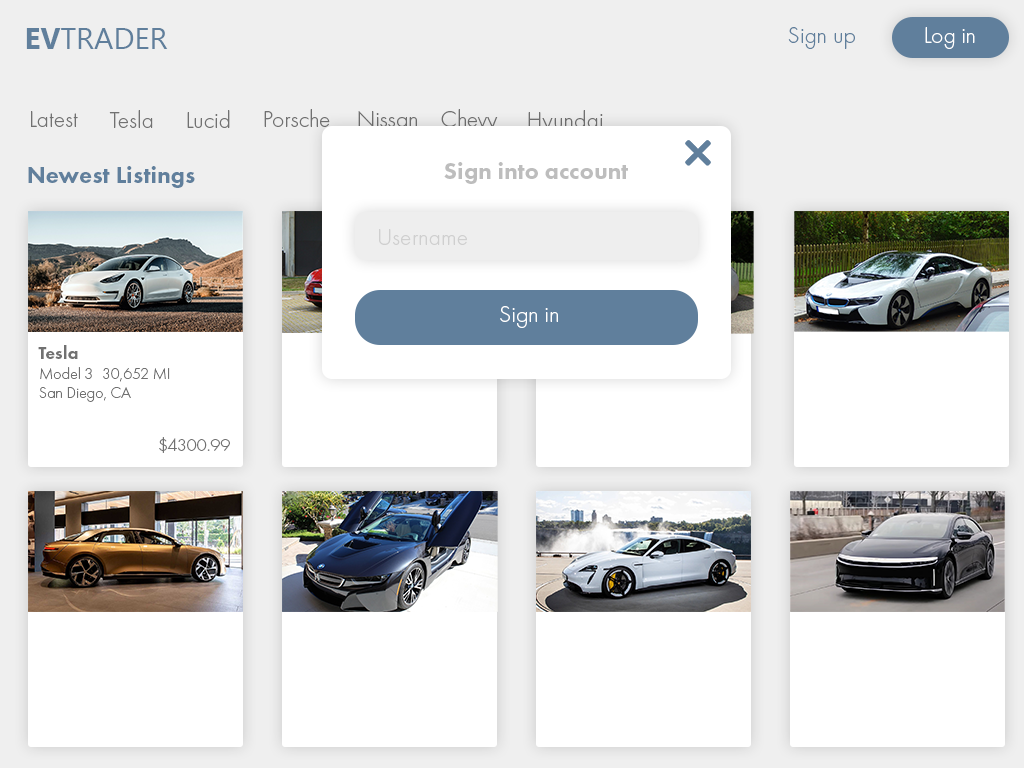
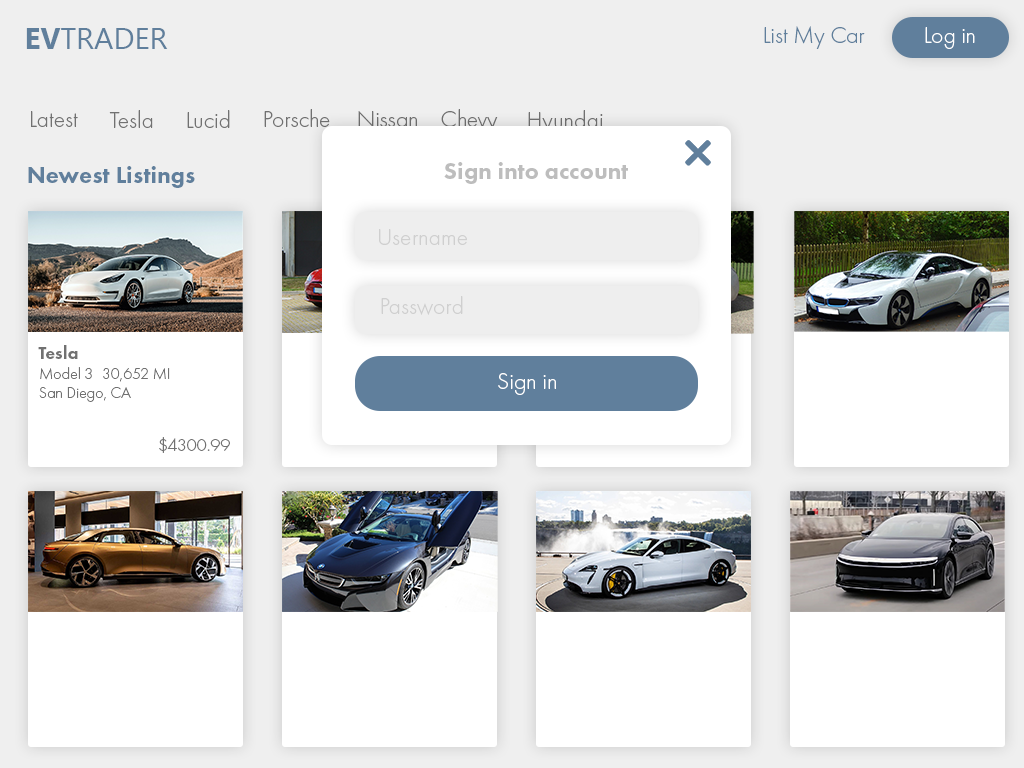
6/22

Changed region(s): [[0.3438, 0.375, 0.6875, 0.5625], [0.75, 0.0312, 0.8438, 0.0625]]

diff --git a/src/App.css b/src/App.css
@@ -11,7 +11,9 @@
     background-color: rgb(239, 239, 239);
 }
 
-/* header */
+/*****************************
+            HEADER 
+*****************************/
 .nav-bar {
     background: rgb(239, 239, 239);
 }
@@ -37,9 +39,14 @@
     width: 150px !important;
     padding-left: 15px;
 }
-
-.p2{
+#logInButton{
     background-color: rgb(96, 127, 156) !important;
+    border: rgb(96, 127, 156) !important;
+    padding: 3px 15px !important;
+    font-family: futuraMedium !important;
+}
+#listMyCar{
+    background-color: none !important;
     border: rgb(96, 127, 156) !important;
     padding: 3px 15px !important;
     font-family: futuraMedium !important;
@@ -47,41 +54,71 @@
 .d-flex {
     font-family: futuraLight !important;
 }
-/* modal */
+
+/*****************************
+            MODAL 
+*****************************/
 .sr-only, span, button.close {
     background-color: white;
 }
+button.close {
+    font-size: 40px !important;
+    color: rgb(96, 127, 156);
+    padding: 0px 0 0 0px !important;
+    margin: 0 0 0 0px !important;
+    opacity: 100%;
+}
 .modal-header {
-    border-bottom: 0 none !important;
-    text-align: center;
-    padding-bottom: 0 !important;
+    padding: 0 !important;
     background-color: white !important;
+    border-bottom: none !important;
+    display: flex !important;
+    justify-content: flex-end !important;
 }
 .modal-footer {
+    padding: 0 !important;
     border-top: 0 none !important;
-    text-align: center;
     overflow: hidden !important;
     background-color: white !important;
 }
 .modal-body {
+    background-color: white;
     padding: 0 !important;
 }
 .ml-auto, rounded {
     background-color: white !important;
 }
-.form-inline {
+#modalForm{
     background-color: white !important;
-    margin: 0 0 5px 20px;
-    text-align: center;
+    margin: 0 0 10px 0px;
+    border-radius: 50px !important;
+}
+#modalInput {
+    margin: 0 !important;
+    /* box-shadow: 1px 0px 10px .1px; */
+    /* filter: blur(.7px) !important; */
 }
 .mr-sm-2.border-1.form-control {
-    background-color: rgb(239, 239, 239);    
+    background-color: rgb(239, 239, 239);
+    border-radius: 50px !important;  
+    width: 256px !important;
+    opacity: 50%;
 }
-
+#modalSignIn {
+    width: 256px;
+    font-weight: 900 !important;
+    background-color: rgb(96, 127, 156) !important;
+    border-radius: 50px !important;
+    margin: 0 0px 0px 0 !important;
+}
 .modal-title {
-    font-size: 16px !important;
-    font-family: futuraMedium;
-    padding: 10px 0 0 0 !important;
+    letter-spacing: 1px;
+    font-size: 17px !important;
+    font-family: futuraMedium ;
+    opacity: 70%;
+    color: rgb(113, 113, 113);
+    font-weight: 700 !important;
+    padding: 0 0 5px 0 !important;
     background-color: white !important;
 }
 .fade, modal, show {
@@ -91,34 +128,40 @@
     display: flex !important;
     height: auto !important;
     overflow: hidden !important;
-    /* border: indigo 5px solid !important; */
     width: 100% !important;
-    margin-top: 10px !important;
+    margin-top: -100px !important;
 }
 .modal-content {
-    border: black 1px solid !important;
-    border-radius: 10px !important;
+    border: none !important;
     overflow: hidden !important;
+    width: 300px !important;
+    padding: 0 20px 20px 10px;
+}
+.modal-body {
+    display: flex;
+    flex-direction: column;
+    align-items: center;
+    margin-top: -10px !important;
 }
 .modal-dialog {
     background-color: none !important;
-    width: 250px !important;
+    width: 300px !important;
     overflow: hidden !important;
     border-radius: 10px !important;
-}
-.modal-container {
-    display: flex !important;
-    flex-direction: column !important;
-    justify-content: center !important;
+    box-shadow: 10px 10px 50px grey;
 }
 
-/* nav */
+/*****************************
+            NAV 
+*****************************/
 .nav-link {
     color: rgb(113, 113, 113);
     font-family: futuraLight !important;
 }
 
-/* home */
+/*****************************
+            HOME 
+*****************************/
 .newest-listings {
     font-family: futuraLight;
 }
@@ -134,8 +177,6 @@
 }
 .card-body, .card-text, .card-title {
     background-color: white !important;
-    /* font-size: 10px; */
-    /* padding: 0 !important; */
     margin: 0 !important;
 }
 .card-body {
@@ -175,7 +216,9 @@
     width: 100%;
 }
 
-/* media queries */
+/*****************************
+            MEDIA QUERIES 
+*****************************/
 @media (max-width: 1000px) {
     .contain {
       grid-template-columns: repeat(3, 1fr);
@@ -187,7 +230,7 @@
         justify-content: center;
     }
   }
-  @media (max-width: 760px) {
+@media (max-width: 760px) {
     .contain {
       grid-template-columns: repeat(2, 1fr);
       row-gap: 20px;
@@ -219,5 +262,11 @@
     }
     .img-fluid{
         width: 100% !important;
+    }
+    .modal-dialog-centered {
+     display: flex !important;
+     align-items: center !important;
+     flex-direction: column !important;
+     justify-content: center !important;   
     }
   }

diff --git a/src/components/Modals.js b/src/components/Modals.js
@@ -14,30 +14,30 @@ export default class Modals extends Component {
     render() {
       return (
         <>
-            <Button className="p2" type="button" size="sm rounded-pill" onClick={this.openModal}>Log In</Button>  
-            <div className="modal-container">
-
-            <Modal className="modal-dialog-centered" show={this.state.isOpen} onHide={this.closeModal}>
-              <Modal.Header closeButton className="modal-header">
-                <Modal.Title className="modal-title">Sign into account</Modal.Title>
-              </Modal.Header>
-              <Modal.Body>
-                <div className="ml-auto rounded ">
-                    <Form inline>
-                        <FormControl type="text" placeholder="Username" className="mr-sm-2 border-1" />
-                    </Form>
-                </div>
-                <div className="ml-auto rounded ">
-                    <Form inline>
-                        <FormControl type="text" placeholder="Password" className="mr-sm-2 border-1" />
-                    </Form>
-                </div>
-              </Modal.Body>
-              <Modal.Footer className="modal-footer">
-                <button type="button" class="btn btn-primary">Sign In </button>
-              </Modal.Footer>
-            </Modal>
+            <Button className="p2" id="logInButton" type="button" size="sm rounded-pill" onClick={this.openModal}>Log In</Button>  
             
+            <div className="modal-container">
+              <Modal className="modal-dialog-centered" id="modal" show={this.state.isOpen} onHide={this.closeModal}>
+                <Modal.Header closeButton className="modal-header">
+                </Modal.Header>
+                <Modal.Body>
+                <Modal.Title className="modal-title">Sign into account</Modal.Title>
+
+                  <div className="ml-auto rounded ">
+                      <Form inline id="modalForm">
+                          <FormControl type="text" id="modalInput" placeholder="Username" className="mr-sm-2 border-1" />
+                      </Form>
+                  </div>
+                  <div className="ml-auto rounded ">
+                      <Form inline id="modalForm" >
+                          <FormControl type="text" id="modalInput" placeholder="Password" className="mr-sm-2 border-1" />
+                      </Form>
+                  </div>
+                </Modal.Body>
+                <Modal.Footer className="modal-footer">
+                  <button type="button" class="btn btn-primary" id="modalSignIn">Sign In </button>
+                </Modal.Footer>
+              </Modal>     
             </div>
           </>
      

diff --git a/src/components/Header.js b/src/components/Header.js
@@ -41,7 +41,7 @@ export default class Header extends Component {
                                 <FormControl type="text" placeholder="Search for Car..." className="mr-sm-2 border-0" />
                             </Form>
                         </div>
-                        <div className="p2 pr-3">
+                        <div className="p2 pr-3" id="listMyCar">
                             <p className="nav-bar-text mr-auto">List My Car</p>
                         </div>
                         <Modals />
